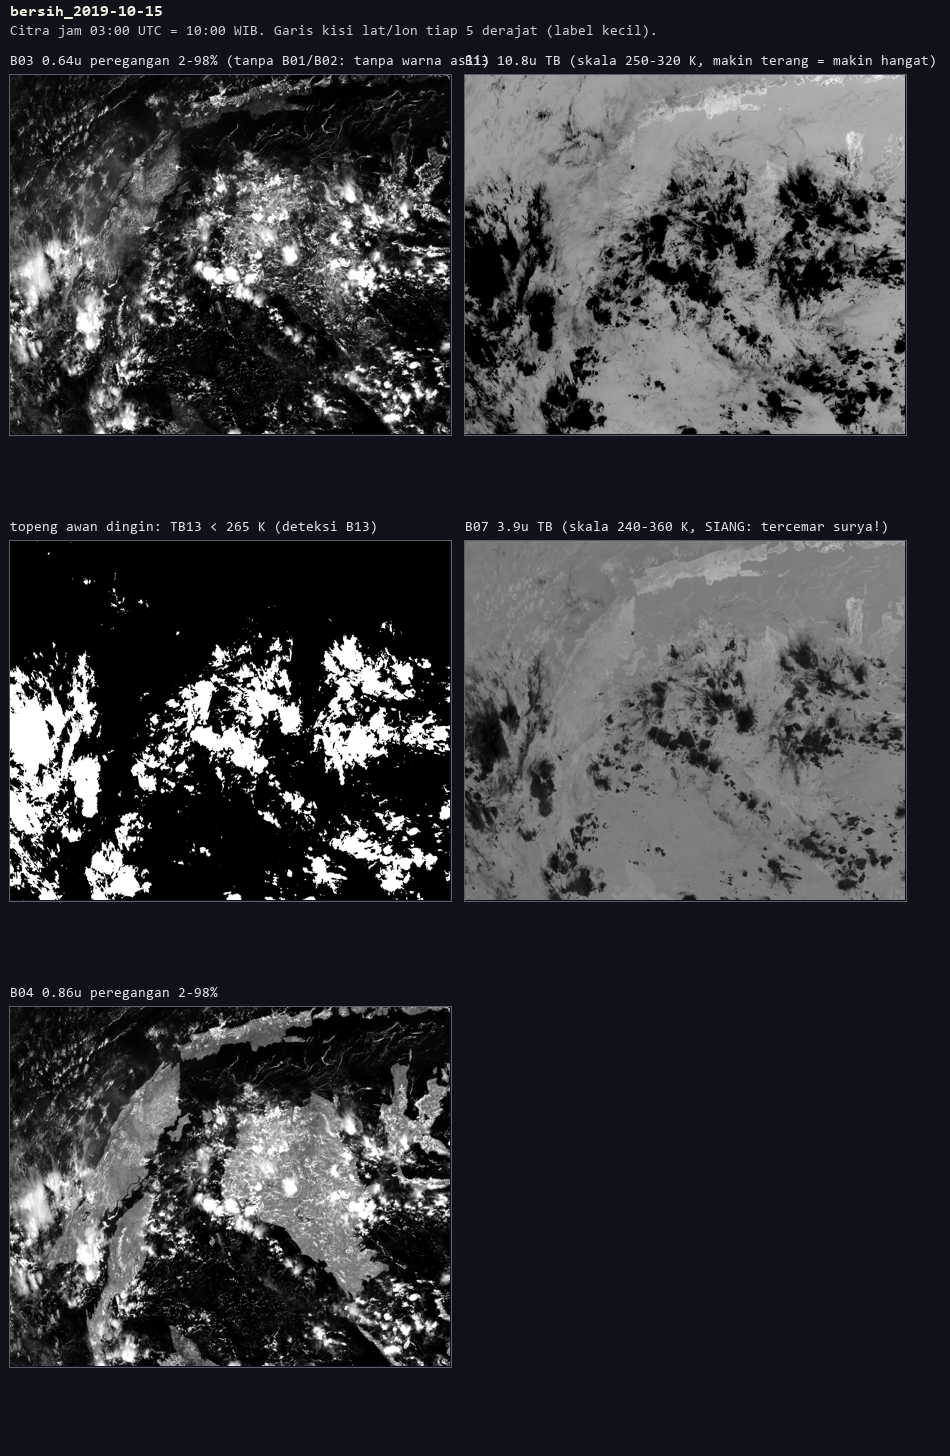
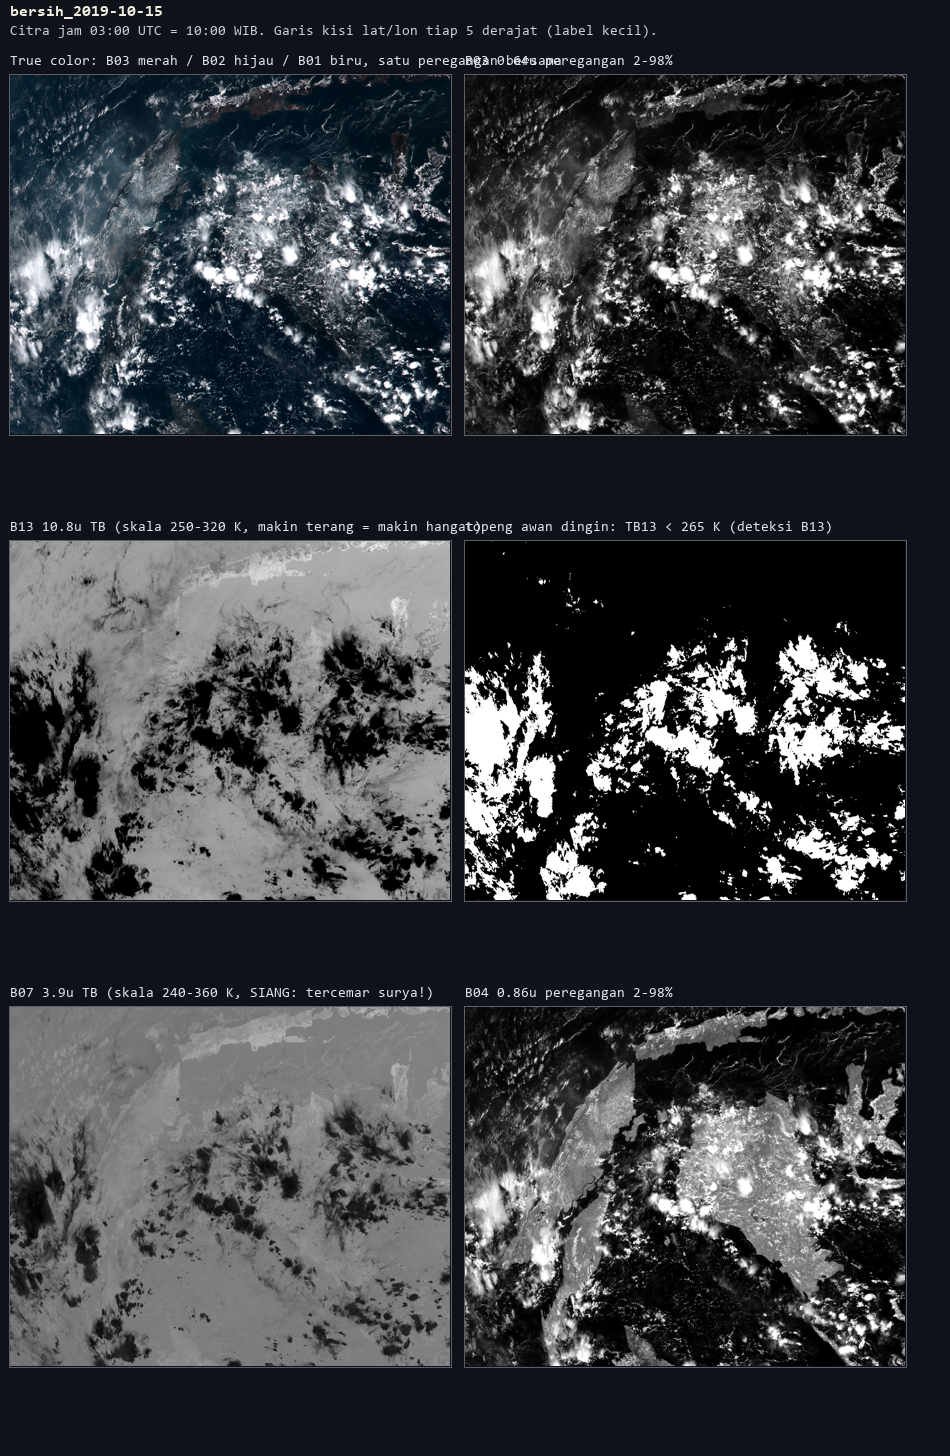
docs(p2): pemulihan sesi - komposit kontrol bersih lengkap B01-B03 dan pembaruan changelog

diff --git a/Changelog.md b/Changelog.md
@@ -9,6 +9,8 @@ Keputusan penting diberi awalan `KEPUTUSAN:`. Jam diambil dari jam sistem.
 
 ## Entri
 
+2026-10-24 09:05 WIB (02:05 UTC) | Koordinator | P2 | Pemulihan sesi: rekonstruksi status repo C: dan Drive, audit 5 butir FM-1 (komposit disejajarkan, aturan api dihapus, potong kotak Riau/Kalteng selesai, kontrol bersih B01-B03 lengkap di-render dan di-commit); citra siap dinilai pengguna | docs/fm1/fm1_bersih_2019-10-15.png, docs/fm1/fm1_bersih_2019-10-15_kalteng.png, docs/fm1/fm1_bersih_2019-10-15_riau.png, Changelog.md | Penilaian visual kelayakan asap oleh pengguna (dibandingkan NASA Worldview)
+
 2026-10-23 20:40 WIB (13:40 UTC) | Data dan citra | P2 | Perbaikan kisi kotak: panel komposit 2026 memakai geometri band asal (B01) bukan grid target (B03 0,5 km) sehingga kisi/pantai tidak digambar; kini geometri diambil dari band dengan grid target (cfac di-skala saat rescale). 8 kotak + 4 panel penuh ter-render tanpa GAGAL. Yang terlihat (kerja, bukan penilaian): kotak Kalteng asap 14-09 menunjukkan lapisan asap abu-abu keputihan di sepanjang Kalimantan Tengah-selatan pada B03/komposit dengan topeng awan dingin hanya di pojok barat-laut; kotak Riau 2026-10-23 kini berkisi utuh | pipeline/kotak_fm1.py | penilaian visual pengguna menunggu; B02 bersih masih diunduh
 
 2026-10-23 20:15 WIB (13:15 UTC) | Data dan citra | P2 | Renderer kotak Riau & Kalteng jadi (`pipeline/kotak_fm1.py`): potong lat/lon via `inv_px` (kebalikan `buat_px`, geodetik→geosentrik), pantai Natural Earth 10 m (`data/coast_ne10m.geojson`, salinan `_ne_coast.geojson`), kisi kuning 1 derajat, topeng awan dingin TB13<265 K [Usulan desain], komposit B03/B02/B01 peregangan bersama, pilihan resolusi per band saat folder campuran R05+R10. KEPUTUSAN: pantai sejajar daratan pada kotak asap = validasi silang eksternal geometri geolokasi pertama (bukan cuma konsistensi internal). Lapisan api tanda merah DIHAPUS dari panel penuh; klaim siang kontaminasi surya 3,9 µm terverifikasi [Literatur CIMSS "Fog and Low Cloud Detection at Night": "during the day... much more radiation at 3.9 µm is reflected and scattered... cloud appears warmer"]. Produk titik panas AHI-L2WLF TIDAK tersedia di AWS bucket noaa-himawari8 (prefiks hanya L1b + Clouds/ISatSS/RainfallRate/SST/Winds) dan di P-Tree butuh registrasi + jendela unduhan 30 hari [Literatur MDPI 15(6):1541]; titik panas 2019 butuh keputusan pengguna (registrasi P-Tree / FIRMS MAP_KEY / alternatif) | pipeline/olah_himawari_fm1.py, pipeline/kotak_fm1.py, data/coast_ne10m.geojson | render 8 kotak + 4 panel penuh berjalan di latar; butir 4 kontrol bersih menunggu unduhan B01/B02 tuntas
